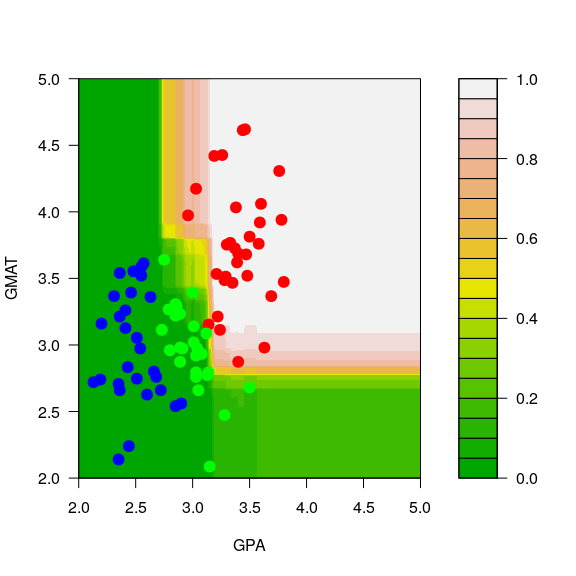
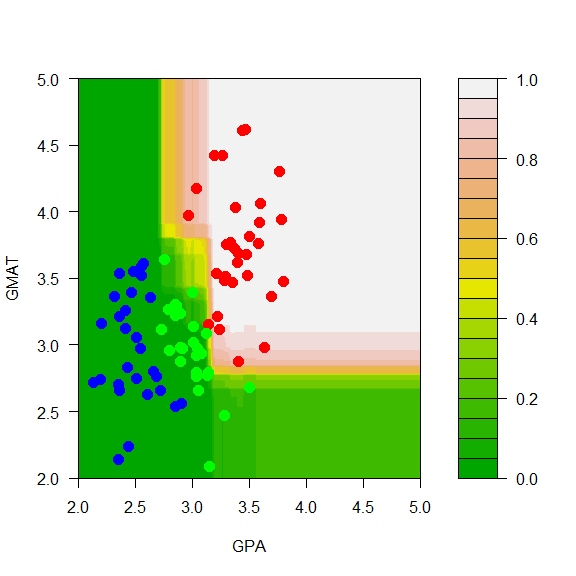
Lec 15 re-run

diff --git a/Lecture15/README.md b/Lecture15/README.md
@@ -1,7 +1,7 @@
 STAT406 - Lecture 15 notes
 ================
 Matias Salibian-Barrera
-2018-10-25
+2018-10-29
 
 LICENSE
 -------
@@ -251,10 +251,10 @@ a.rf
     ##                      Number of trees: 500
     ## No. of variables tried at each split: 24
     ## 
-    ##         OOB estimate of  error rate: 2.08%
+    ##         OOB estimate of  error rate: 2.29%
     ## Confusion matrix:
     ##      3  26 class.error
-    ## 3  235   5  0.02083333
+    ## 3  234   6  0.02500000
     ## 26   5 235  0.02083333
 
 ``` r
